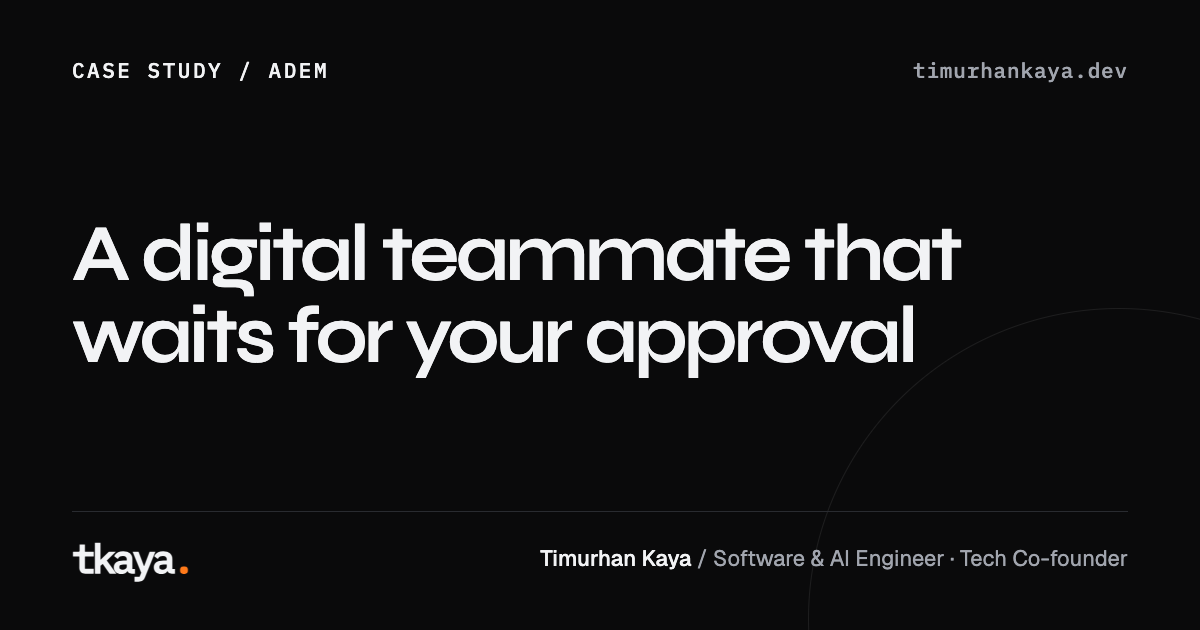
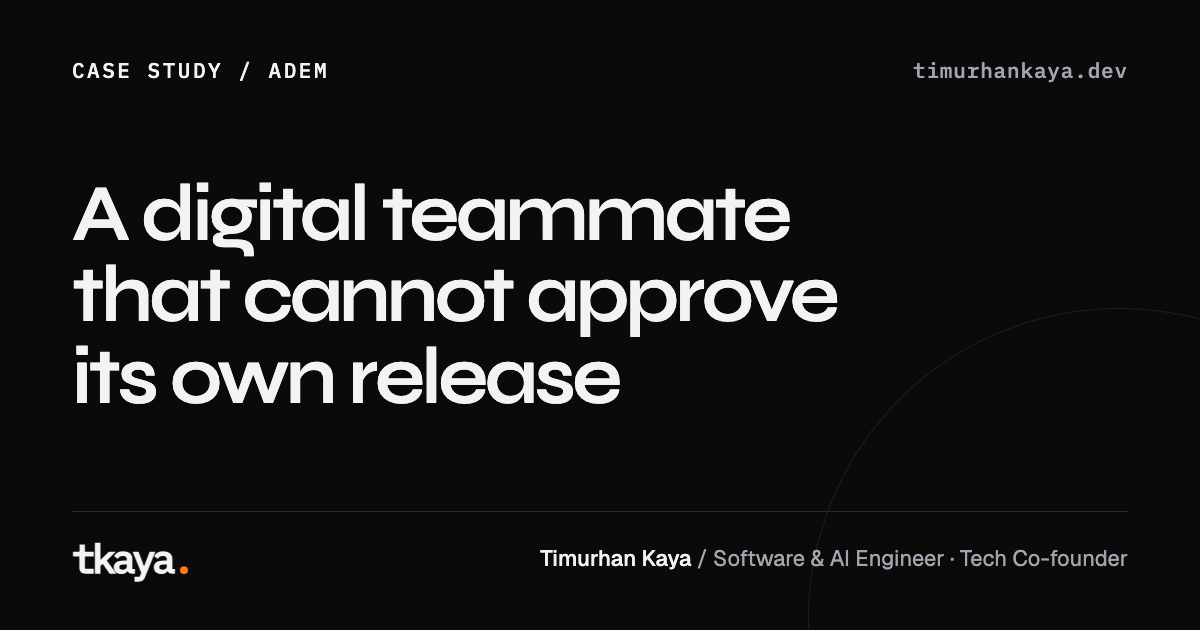
Rewrite the ADEM case study around its design decisions
The story now opens with the laptop runner that stopped, then covers
the single-writer workflow graph, the runner kept off production and
approvals tied to listed people, with one task walked end to end and
its known limits. Case studies can name the work in the sidebar with
case_meta.role / role_en instead of the context label.

Changed region(s): [[0.0617, 0.2714, 0.8017, 0.6635]]

diff --git a/resources/views/pages/case-study.blade.php b/resources/views/pages/case-study.blade.php
@@ -35,7 +35,7 @@
         <aside class="brand-case-facts">
             @if ($series->count() > 1)<nav class="brand-series" aria-label="{{ __('brand.series_label', ['project' => $meta['project_name'] ?? '']) }}"><p class="brand-label">{{ __('brand.series_label', ['project' => $meta['project_name'] ?? '']) }}</p><ol>@foreach ($series as $story)<li>@if ($story->is($post))<span aria-current="page">{{ $story->text('title') }}</span>@else<a href="{{ $story->publicUrl() }}">{{ $story->text('title') }}</a>@endif</li>@endforeach</ol></nav>@endif
             <x-toc :headings="$headings" />
-            <dl><div><dt>{{ __('brand.case_role') }}</dt><dd>{{ __('brand.context_'.($meta['context'] ?? 'personal')) }}</dd></div>@if (filled($meta['period'] ?? null))<div><dt>{{ __('brand.case_year') }}</dt><dd>{{ $meta['period'] }}</dd></div>@endif<div><dt>{{ __('brand.case_tools') }}</dt><dd>{{ implode(' / ', $meta['technologies'] ?? []) }}</dd></div></dl>
+            <dl><div><dt>{{ __('brand.case_role') }}</dt><dd>{{ $post->caseRole() }}</dd></div>@if (filled($meta['period'] ?? null))<div><dt>{{ __('brand.case_year') }}</dt><dd>{{ $meta['period'] }}</dd></div>@endif<div><dt>{{ __('brand.case_tools') }}</dt><dd>{{ implode(' / ', $meta['technologies'] ?? []) }}</dd></div></dl>
             @if ($meta['url'] ?? null)<a class="brand-text-link" href="{{ $meta['url'] }}" target="_blank" rel="noopener noreferrer">{{ __('brand.visit') }} <x-arrow /></a>@endif
             @if ($links)<div class="brand-case-links"><p class="brand-label">{{ __('brand.case_links') }}</p>@foreach ($links as $link)<a href="{{ $link['url'] }}" target="_blank" rel="noopener noreferrer"><span>{{ $link['label'] }}</span><x-arrow /></a>@endforeach</div>@endif
             @if (in_array($post->project_key, ['word-imposter', 'vampir-koylu'], true))<a class="brand-button" href="{{ \App\Support\Seo::route($post->project_key === 'word-imposter' ? 'games.imposter.index' : 'games.vampire.index') }}">{{ __('brand.play') }} <x-arrow /></a>@endif

diff --git a/tests/Feature/CaseStudyRenderingTest.php b/tests/Feature/CaseStudyRenderingTest.php
@@ -15,6 +15,17 @@ it('shows the project name in the page language when an English name is given', 
     $this->get('/tr/vaka-incelemeleri/anonymous-story')->assertOk()->assertSee('E-ticaret altyapısı');
 });
 
+it('describes the work in the sidebar when a role is given, and falls back to the context label', function () {
+    $post = caseStudy(['slug' => 'role-story', 'case_meta' => ['project_name' => 'ADEM', 'context' => 'founder', 'role' => 'Ürün tasarımı ve mühendislik', 'role_en' => 'Product design and engineering', 'period' => '2026–']]);
+
+    expect($post->caseRole('tr'))->toBe('Ürün tasarımı ve mühendislik')->and($post->caseRole('en'))->toBe('Product design and engineering');
+    $this->get('/case-studies/role-story')->assertOk()->assertSee('<dd>Product design and engineering</dd>', false)->assertDontSee('<dd>Co-founder</dd>', false);
+    $this->get('/tr/vaka-incelemeleri/role-story')->assertOk()->assertSee('<dd>Ürün tasarımı ve mühendislik</dd>', false);
+
+    $plain = caseStudy(['slug' => 'plain-story', 'case_meta' => ['project_name' => 'Monafy', 'context' => 'founder', 'period' => '2025–']]);
+    expect($plain->caseRole('en'))->toBe('Co-founder')->and($plain->caseRole('tr'))->toBe('Kurucu ortak');
+});
+
 it('renders code blocks as a highlighted, numbered, copyable component', function () {
     caseStudy(['slug' => 'code-story', 'content' => '<p>Kod.</p><pre><code class="language-php">$total = $price * $qty; // net
 echo "&lt;script&gt;";</code></pre>']);

diff --git a/app/Filament/Resources/Posts/Schemas/PostForm.php b/app/Filament/Resources/Posts/Schemas/PostForm.php
@@ -85,6 +85,8 @@ class PostForm
                 TextInput::make('case_meta.project_name')->label('Proje adı')->required(fn (Get $get) => filled($get('published_at')))->maxLength(255),
                 TextInput::make('case_meta.project_name_en')->label('Proje adı (İngilizce)')->helperText('Boşsa İngilizce sayfada da Türkçe ad görünür.')->maxLength(255),
                 Select::make('case_meta.context')->label('Çalışma türü')->options(['founder' => 'Kurucu ortak', 'employment' => 'Maaşlı çalışma', 'client' => 'Müşteri çalışması', 'personal' => 'Kişisel proje'])->required(fn (Get $get) => filled($get('published_at'))),
+                TextInput::make('case_meta.role')->label('Çalışma kapsamı')->helperText('Boşsa çalışma türü görünür.')->maxLength(120),
+                TextInput::make('case_meta.role_en')->label('Çalışma kapsamı (İngilizce)')->helperText('Boşsa İngilizce sayfada çalışma türü görünür.')->maxLength(120),
                 TextInput::make('case_meta.period')->label('Dönem')->helperText('İsimsiz işlerde boş bırakılabilir.')->maxLength(100),
                 TagsInput::make('case_meta.technologies')->label('Teknolojiler')->required(fn (Get $get) => filled($get('published_at')))->splitKeys([','])->nestedRecursiveRules(['string', 'max:100']),
                 TextInput::make('case_meta.url')->label('Proje bağlantısı')->url()->rules(['nullable', 'url:http,https'])->maxLength(2000),

diff --git a/app/Models/Post.php b/app/Models/Post.php
@@ -132,6 +132,15 @@ class Post extends Model
         })->filter(fn (array $link): bool => $link['label'] !== '' && $link['url'] !== '')->values()->all();
     }
 
+    /** What the owner did, in the page language: `role` (Turkish) and `role_en` describe the work; without them, the context label. */
+    public function caseRole(?string $locale = null): string
+    {
+        $locale ??= app()->getLocale();
+        $role = trim((string) data_get($this->case_meta, $locale === 'en' ? 'role_en' : 'role'));
+
+        return $role !== '' ? $role : __('brand.context_'.(data_get($this->case_meta, 'context') ?: 'personal'), [], $locale);
+    }
+
     /** Project label in the page language: `project_name` is Turkish (primary), `project_name_en` an optional English name. */
     public function projectName(?string $locale = null): string
     {
